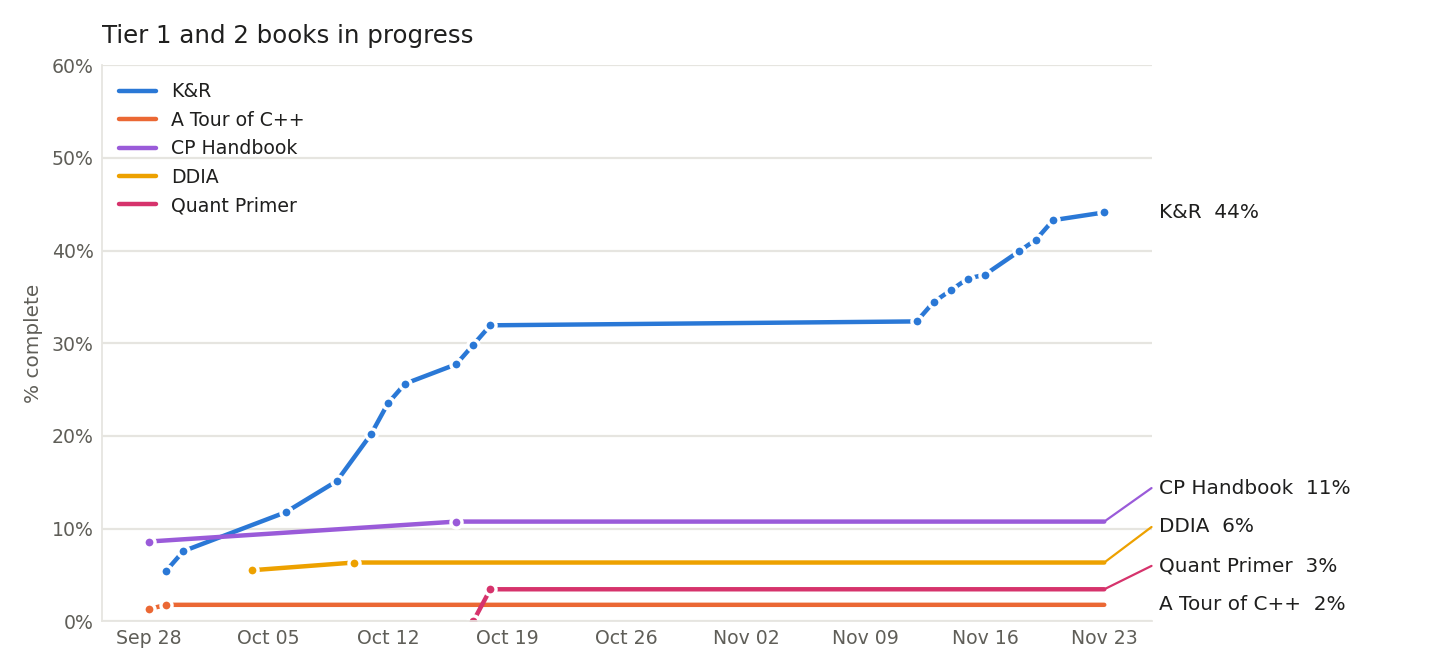
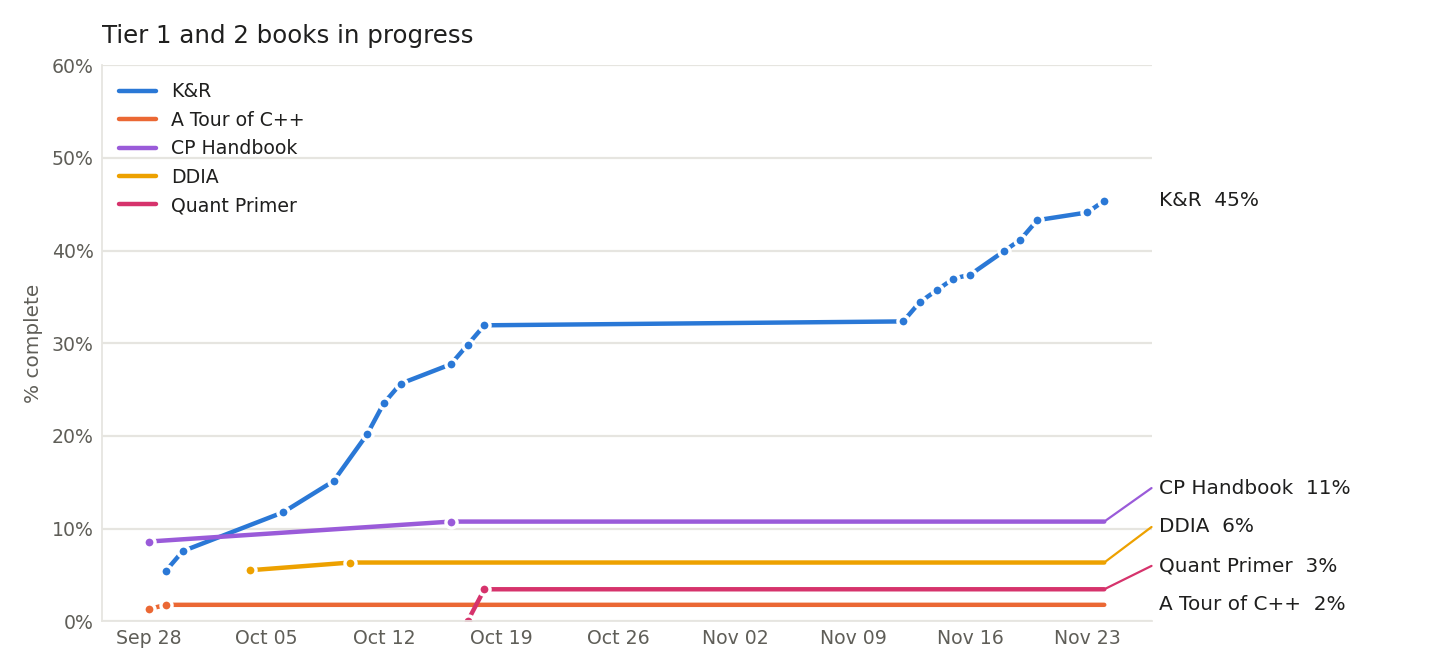
Log K&R progress, 108 pages read, finished 5.11

diff --git a/tracks/quant.md b/tracks/quant.md
@@ -8,8 +8,8 @@
   memmove over contiguous memory that runs at many GB/s. For a few hundred elements it is often faster than a skip list's
   pointer chasing, allocations, and random-level logic. Big-O hides constant factors and cache behavior. Read K&R for the
   memory model, pointers, and arrays; the cache-locality half of the lesson belongs to the low-latency book in the career track.
-  Log: 2026-09-29 started, read to page 13. 2026-09-30 to page 18. 2026-10-06 to page 28. 2026-10-09 to page 36, finished chapter 1. 2026-10-11 to page 41 (through 2.6), then read 2.8 through 2.12 with 2.7 skipped. 2026-10-12 backfilled 2.7, chapter 2 done, then to page 56. 2026-10-13 to page 61, chapter 3 done. 2026-10-16 to page 66, 4.2 done. 2026-10-17 to page 71, 4.3 done (reverse Polish calculator). 2026-10-18 to page 76, 4.8 done. 2026-11-12 to page 77, first page back after a 25-day break. 2026-11-13 to page 82, chapter 4 done (4.9 to 4.11: initialization, recursion, preprocessor). 2026-11-14 to page 85, into chapter 5. 2026-11-15 to page 88. 2026-11-16 to page 89, 5.3 done. 2026-11-18 to page 92, 5.4 done (address arithmetic, alloc and afree), then to page 95, 5.5 done (strcpy, strcmp). 2026-11-19 to page 98, 5.6 done (line sort with pointer arrays). 2026-11-20 to page 103, 5.7 to 5.9 done (multi-dimensional arrays, pointer array initialization, pointers vs. multi-dimensional arrays) and into 5.10. 2026-11-23 to page 105, 5.10 done (command-line arguments, find with -x and -n flags). Currently on
-  page 106 of 238 (44%), section 5.11 Pointers to Functions.
+  Log: 2026-09-29 started, read to page 13. 2026-09-30 to page 18. 2026-10-06 to page 28. 2026-10-09 to page 36, finished chapter 1. 2026-10-11 to page 41 (through 2.6), then read 2.8 through 2.12 with 2.7 skipped. 2026-10-12 backfilled 2.7, chapter 2 done, then to page 56. 2026-10-13 to page 61, chapter 3 done. 2026-10-16 to page 66, 4.2 done. 2026-10-17 to page 71, 4.3 done (reverse Polish calculator). 2026-10-18 to page 76, 4.8 done. 2026-11-12 to page 77, first page back after a 25-day break. 2026-11-13 to page 82, chapter 4 done (4.9 to 4.11: initialization, recursion, preprocessor). 2026-11-14 to page 85, into chapter 5. 2026-11-15 to page 88. 2026-11-16 to page 89, 5.3 done. 2026-11-18 to page 92, 5.4 done (address arithmetic, alloc and afree), then to page 95, 5.5 done (strcpy, strcmp). 2026-11-19 to page 98, 5.6 done (line sort with pointer arrays). 2026-11-20 to page 103, 5.7 to 5.9 done (multi-dimensional arrays, pointer array initialization, pointers vs. multi-dimensional arrays) and into 5.10. 2026-11-23 to page 105, 5.10 done (command-line arguments, find with -x and -n flags). 2026-11-24 to page 108, 5.11 done (pointers to functions). Currently on
+  page 109 of 238 (45%), section 5.12 Complicated Declarations, the last section of chapter 5.
 - [~] **A Tour of C++** by Bjarne Stroustrup (Tier 1)
   Fast, authoritative overview of modern C++. Second priority overall, after K&R. Also pays off directly in competitive programming.
   Plan (started 2026-09-28): one pass, no re-reading. Chapters 1 to 8 (core language) at one chapter per sitting with a

diff --git a/README.md b/README.md
@@ -15,7 +15,7 @@ Personal reading list across three tracks. Each track lives in its own file unde
 <!-- progress:start -->
 | Book | Progress | | Unit |
 |---|---|---|---|
-| K&R | `█████████░░░░░░░░░░░` | 44% | 105 of 238 pages |
+| K&R | `█████████░░░░░░░░░░░` | 45% | 108 of 238 pages |
 | A Tour of C++ | `░░░░░░░░░░░░░░░░░░░░` | 2% | 4 of 226 pages |
 | CP Handbook | `██░░░░░░░░░░░░░░░░░░` | 11% | 30 of 279 pages |
 | DDIA | `█░░░░░░░░░░░░░░░░░░░` | 6% | 38 of 600 pages |
